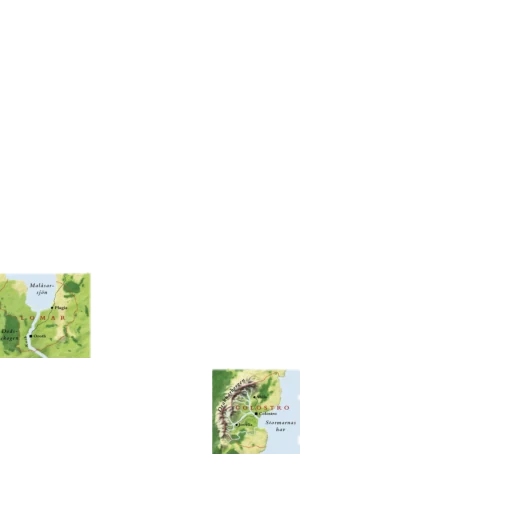
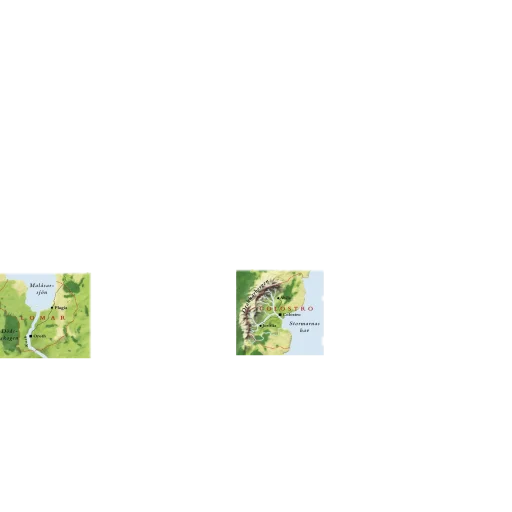
v1.18.3: move the Colostro inset of the Jargien layer to the right place
Claude-Session: https://claude.ai/code/session_01JVATdQRTjHvh6ACghck5CM

Changed region(s): [[0.4062, 0.5, 0.6562, 0.9062]]

diff --git a/src/main/resources/static/rune/js/main.js b/src/main/resources/static/rune/js/main.js
@@ -1,6 +1,6 @@
 'use strict';
 // Root and Rune: version check and start. The files in js/ are loaded in order by index.html and share one scope.
-const UI_VERSION = '1.18.2';   // keep equal to the version in pom.xml
+const UI_VERSION = '1.18.3';   // keep equal to the version in pom.xml
 api('GET', '/rune/api/version').then(v => {
   $('#ver').textContent = 'v' + v.version + (v.built ? ' · built ' + v.built.replace('T', ' ').replace('Z', ' UTC') : '');
   if (v.version !== UI_VERSION) {

diff --git a/tools/move-layer-piece.py b/tools/move-layer-piece.py
@@ -1,0 +1,107 @@
+#!/usr/bin/env python3
+"""
+Moves one piece (e.g. a small regional inset) of a map layer to another place, without touching the rest of the layer.
+
+  python3 tools/move-layer-piece.py <tiles folder> <layer id> <x> <y> <w> <h> <dx> <dy>
+
+ - x y w h: the piece's box in full-size pixels (zoom level 0; the map picture is 1/8 of that). Everything that is
+   not see-through inside the box moves; it must not touch another piece.
+ - dx dy: how far to move it, in full-size pixels (8 of them are one pixel of the map picture).
+Only the zoom pieces and the part of the map picture that the old and new boxes touch are rewritten
+(levels 2, 1, 0 and layers/<id>/map.webp), and manifest.json is updated.
+"""
+import json, os, sys
+import cv2, numpy as np
+from PIL import Image
+
+Image.MAX_IMAGE_PIXELS = None
+tiles, lid = sys.argv[1].rstrip("/") + "/", sys.argv[2]
+X, Y, W, H, DX, DY = (int(float(v)) for v in sys.argv[3:9])
+man = json.load(open(tiles + "manifest.json"))
+TS = man["tileSize"]
+layer = next(l for l in man["layers"] if l["id"] == lid)
+base = tiles + "layers/" + lid + "/"
+rect = layer["map"]
+G = TS * 4                                         # region grid: one level-2 piece, so every level lines up
+
+# the region that changes: old and new box, grown to the grid
+x0 = min(X, X + DX) - 8; y0 = min(Y, Y + DY) - 8
+x1 = max(X + W, X + DX + W) + 8; y1 = max(Y + H, Y + DY + H) + 8
+rx0, ry0 = x0 // G * G, y0 // G * G
+rx1, ry1 = -(-x1 // G) * G, -(-y1 // G) * G
+CW, CH = rx1 - rx0, ry1 - ry0
+canvas = np.zeros((CH, CW, 4), np.uint8)
+for k in layer["tiles"].get("0", []):
+    tx, ty = map(int, k.split("_"))
+    if tx * TS < rx1 and (tx + 1) * TS > rx0 and ty * TS < ry1 and (ty + 1) * TS > ry0:
+        t = np.asarray(Image.open(base + "0/" + k + ".webp").convert("RGBA"))
+        canvas[ty * TS - ry0:(ty + 1) * TS - ry0, tx * TS - rx0:(tx + 1) * TS - rx0] = t
+
+# cut the piece out and put it down again
+box = (slice(Y - ry0, Y - ry0 + H), slice(X - rx0, X - rx0 + W))
+piece = canvas[box].copy()
+if piece[..., 3].max() == 0:
+    sys.exit("nothing in that box")
+canvas[box] = 0
+nb = (slice(Y + DY - ry0, Y + DY - ry0 + H), slice(X + DX - rx0, X + DX - rx0 + W))
+dest = canvas[nb]
+if dest[..., 3].max() > 0:
+    sys.exit("the new place is not empty (another piece is there)")
+canvas[nb] = piece
+
+
+def premult(a):
+    f = a.astype(np.float32); f[..., :3] *= f[..., 3:4] / 255.0; return f
+
+
+def unpremult(f):
+    a = f[..., 3:4]
+    rgb = np.where(a > 0.5, f[..., :3] * 255.0 / np.maximum(a, 0.5), 0)
+    return Image.fromarray(np.dstack([np.clip(rgb, 0, 255), np.clip(a, 0, 255)]).round().astype(np.uint8), "RGBA")
+
+
+P0 = premult(canvas)
+changed = [(X, Y, X + W, Y + H), (X + DX, Y + DY, X + DX + W, Y + DY + H)]
+for lvl in (0, 1, 2):
+    f = 2 ** lvl
+    C = P0 if lvl == 0 else cv2.resize(P0, (CW // f, CH // f), interpolation=cv2.INTER_AREA)
+    ox, oy = rx0 // f, ry0 // f
+    os.makedirs(base + str(lvl), exist_ok=True)
+    have = set(layer["tiles"].get(str(lvl), []))
+    touched = set()
+    for (a, b, c, d) in changed:
+        for ty in range(max(0, (b // f - 2) // TS), (d // f + 2) // TS + 1):
+            for tx in range(max(0, (a // f - 2) // TS), (c // f + 2) // TS + 1):
+                touched.add((tx, ty))
+    for tx, ty in sorted(touched):
+        sx, sy = tx * TS - ox, ty * TS - oy
+        if sx < 0 or sy < 0 or sx + TS > C.shape[1] or sy + TS > C.shape[0]:
+            continue
+        part = C[sy:sy + TS, sx:sx + TS]
+        key = f"{tx}_{ty}"
+        path = base + f"{lvl}/{key}.webp"
+        if part[..., 3].max() < 1:
+            if key in have:
+                have.discard(key)
+                if os.path.exists(path): os.remove(path)
+            continue
+        unpremult(part).save(path, "WEBP", quality=84, method=4)
+        have.add(key)
+    layer["tiles"][str(lvl)] = sorted(have, key=lambda s: tuple(map(int, s.split("_"))))
+    print("level", lvl, "pieces now", len(have))
+
+# the layer's part of the map picture: redo the parts under the old and new box
+patch = np.asarray(Image.open(base + "map.webp").convert("RGBA")).copy()
+C8 = cv2.resize(P0, (CW // 8, CH // 8), interpolation=cv2.INTER_AREA)
+img8 = np.asarray(unpremult(C8)).copy()
+for (a, b, c, d) in changed:
+    ax, ay, bx, by = a // 8 - 3, b // 8 - 3, -(-c // 8) + 3, -(-d // 8) + 3
+    for my in range(ay, by):
+        for mx in range(ax, bx):
+            px, py = mx - rect["x"], my - rect["y"]
+            ix, iy = mx - rx0 // 8, my - ry0 // 8
+            if 0 <= px < patch.shape[1] and 0 <= py < patch.shape[0] and 0 <= ix < img8.shape[1] and 0 <= iy < img8.shape[0]:
+                patch[py, px] = img8[iy, ix]
+Image.fromarray(patch, "RGBA").save(base + "map.webp", "WEBP", quality=86, method=4)
+json.dump(man, open(tiles + "manifest.json", "w"), ensure_ascii=False, separators=(",", ":"))
+print("moved", (X, Y, W, H), "by", (DX, DY))

diff --git a/CHANGELOG.md b/CHANGELOG.md
@@ -2,6 +2,11 @@
 
 Newest first. Versions from 1.x on are the combined app (Root and Rune + Weather generator).
 
+## v1.18.3 (combined app)
+- The Colostro inset in the Jargien map layer is moved to where Colostro really is (12 map pixels east and 49.5 north:
+  the town square, the mountains and the coast now line up with the first Mundana map). New
+  `tools/move-layer-piece.py` moves one piece of a layer and rewrites only the zoom pieces it touches.
+
 ## v1.18.2 (combined app)
 - The map layer "Egor–Nermada (Ivani, Ara)" is now called "Thalamur–Nermada". Its id is unchanged, so saved layer choices still work.
 
